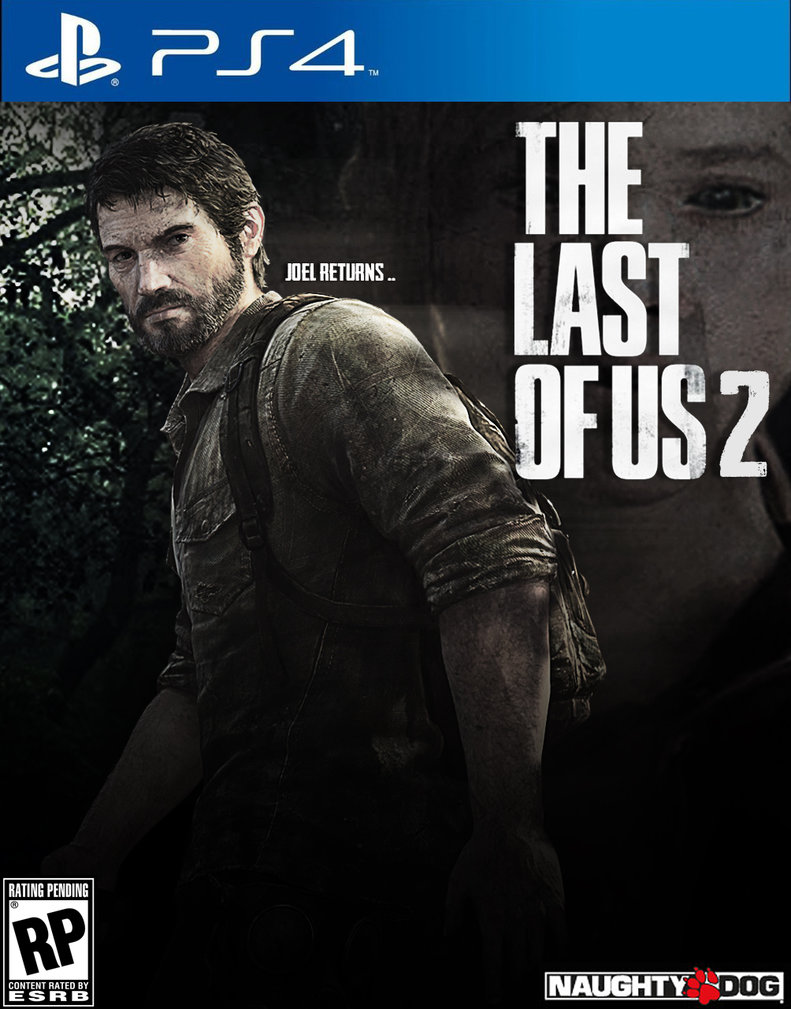
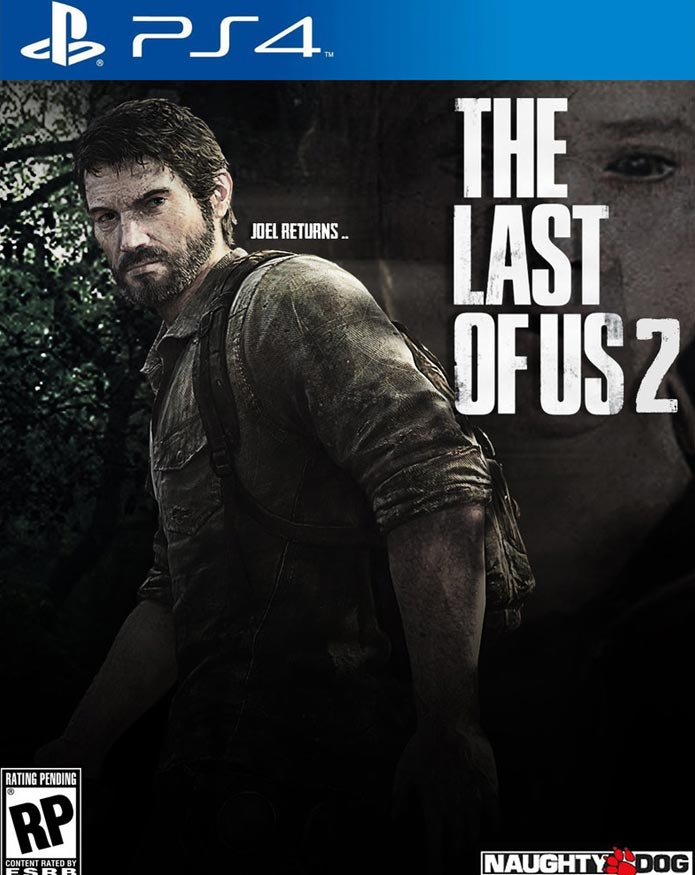
html arreglo img

diff --git a/index.html b/index.html
@@ -46,11 +46,44 @@
                 </div>
                 <div class="col-lg-3 col-md-3 col-sm-12 col-xs-12">
                     <div class="img-estrenos">
-                        <img src="assets/img/LANZAMIENTOS/thelastofus2_p4.jpg" alt="thelastofus2">
+                        <img src="assets/img/LANZAMIENTOS/thelastofus2_p4.jpg" alt="thelastofus2" class="img-responsive-estreno">
                     </div>
                     <div class="text-los-estrenos">
                         <h3>The Last of Us 2</h3>
                         <p>Es la secuela de The Last of Us, uno de los juegos más aclamados de la consola PS3, que apareció en 2015 en PS4 en versión remasterizada.</p>
+                        <button type="button" class="btn btn-donate" data-toggle="modal">RESERVAR</button>
+                        <button type="button" class="btn btn-donate" data-toggle="modal"> ver más > </button>
+                    </div>
+                </div>
+                <div class="col-lg-3 col-md-3 col-sm-12 col-xs-12">
+                    <div class="img-estrenos">
+                        <img src="assets/img/LANZAMIENTOS/gc5_xbxone.jpg" alt="carcry" class="img-responsive-estreno">
+                    </div>
+                    <div class="text-los-estrenos">
+                        <h3>Car Cry Primal</h3>
+                        <p>La aclamada serie Far Cry, ambientada en el trópico y en el Himalaya, entra en la era de la lucha por la supervivencia de la raza humana con su innovador mundo abierto, bestias enormes, entornos increíbles y encuentros salvajes impredecibles.</p>
+                        <button type="button" class="btn btn-donate" data-toggle="modal">RESERVAR</button>
+                        <button type="button" class="btn btn-donate" data-toggle="modal"> ver más > </button>
+                    </div>
+                </div>
+                <div class="col-lg-3 col-md-3 col-sm-12 col-xs-12">
+                    <div class="img-estrenos">
+                        <img src="assets/img/LANZAMIENTOS/mario_sw.jpg" alt="mariosd" class="img-responsive-estreno">
+                    </div>
+                    <div class="text-los-estrenos">
+                        <h3>Mario Kart 8 Deluxe</h3>
+                        <p>Mario Kart 8 Deluxe es un videojuego de carreras desarrollado y publicado por Nintendo para la consola Nintendo Switch.</p>
+                        <button type="button" class="btn btn-donate" data-toggle="modal">RESERVAR</button>
+                        <button type="button" class="btn btn-donate" data-toggle="modal"> ver más > </button>
+                    </div>
+                </div>
+                <div class="col-lg-3 col-md-3 col-sm-12 col-xs-12">
+                    <div class="img-estrenos">
+                        <img src="assets/img/LANZAMIENTOS/zelda_switch.jpg" alt="legendofzelda" class="img-responsive-estreno">
+                    </div>
+                    <div class="text-los-estrenos">
+                        <h3>The Legend of Zelda: Breath of the Wild</h3>
+                        <p>The Legend of Zelda: Breath of the Wild es el título oficial del videojuego de acción-aventura de la serie The Legend of Zelda, desarrollado por Nintendo EPD, en colaboración con Monolith Soft para Wii U y Nintendo Switch</p>
                         <button type="button" class="btn btn-donate" data-toggle="modal">RESERVAR</button>
                         <button type="button" class="btn btn-donate" data-toggle="modal"> ver más > </button>
                     </div>

diff --git a/assets/css/style.css b/assets/css/style.css
@@ -1,0 +1,20 @@
+*{
+	margin:  0px;
+	padding: 0px;
+}
+
+
+
+
+/*------------ SECTION ESTRENOS ----------*/
+
+.img-estrenos{
+	padding: 5px;
+	background-color: #BFBFBF;
+}
+
+.img-responsive-estreno{
+	width: 100%;
+}
+
+
